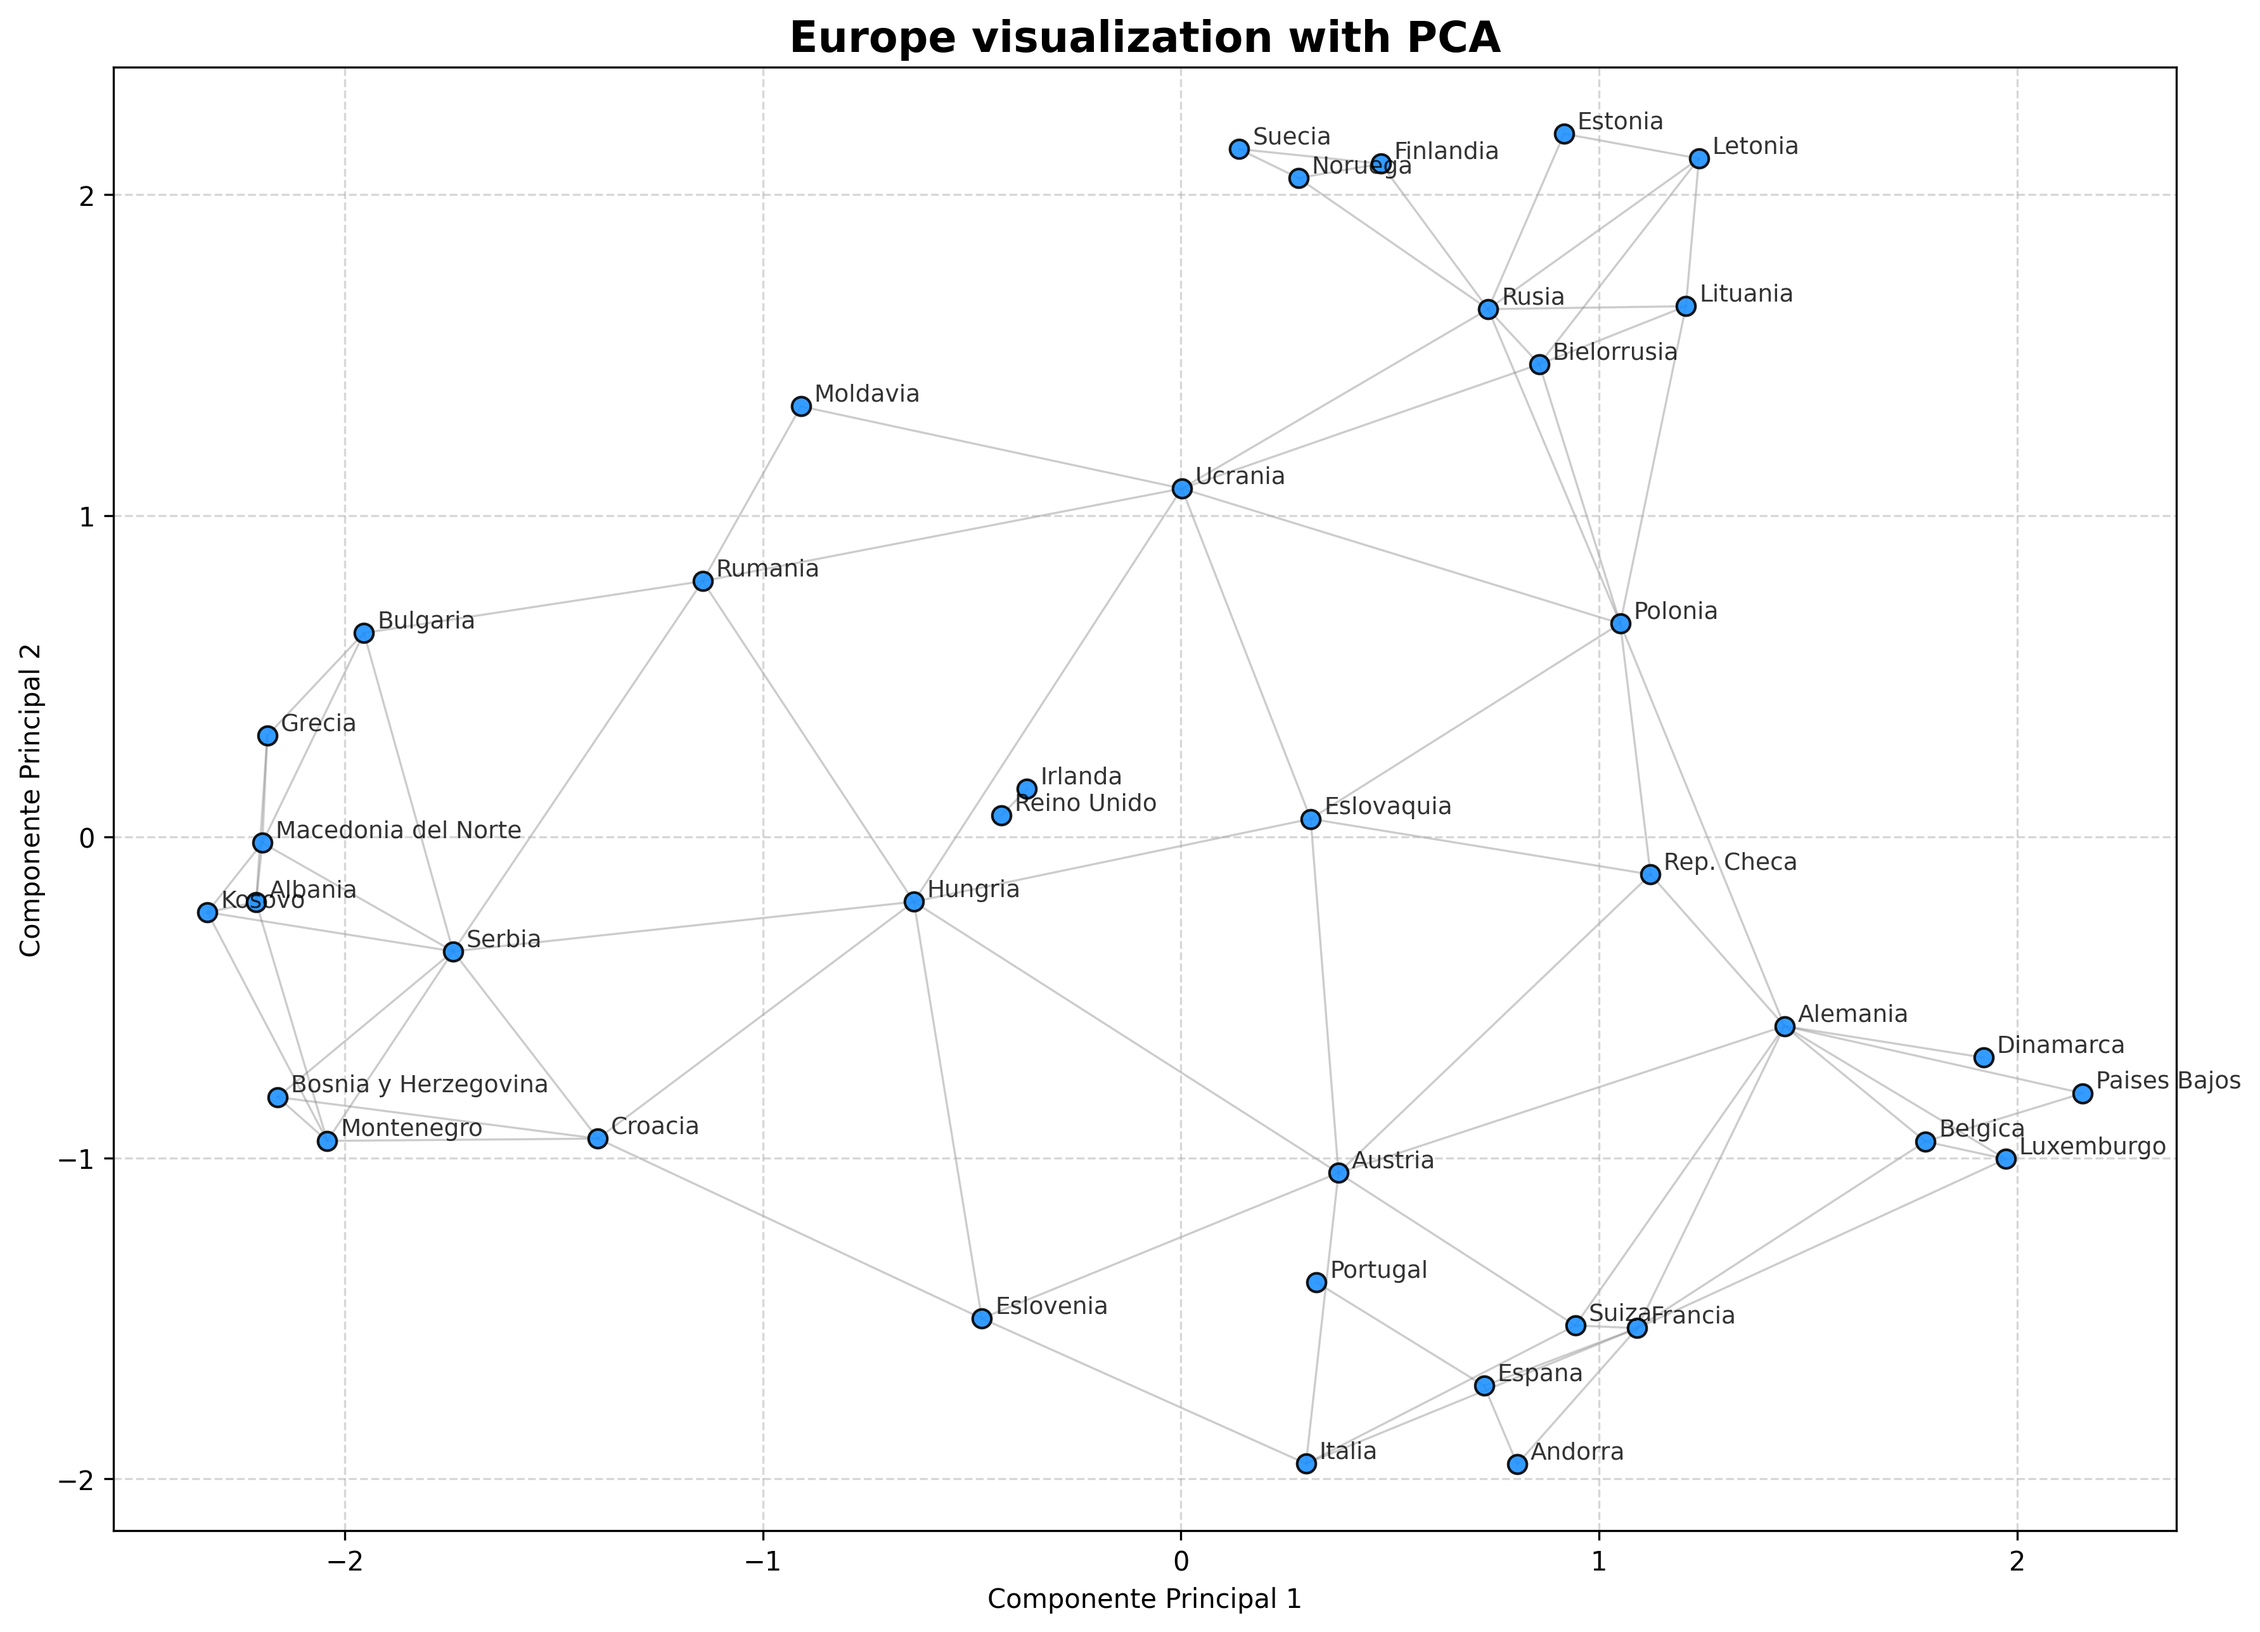
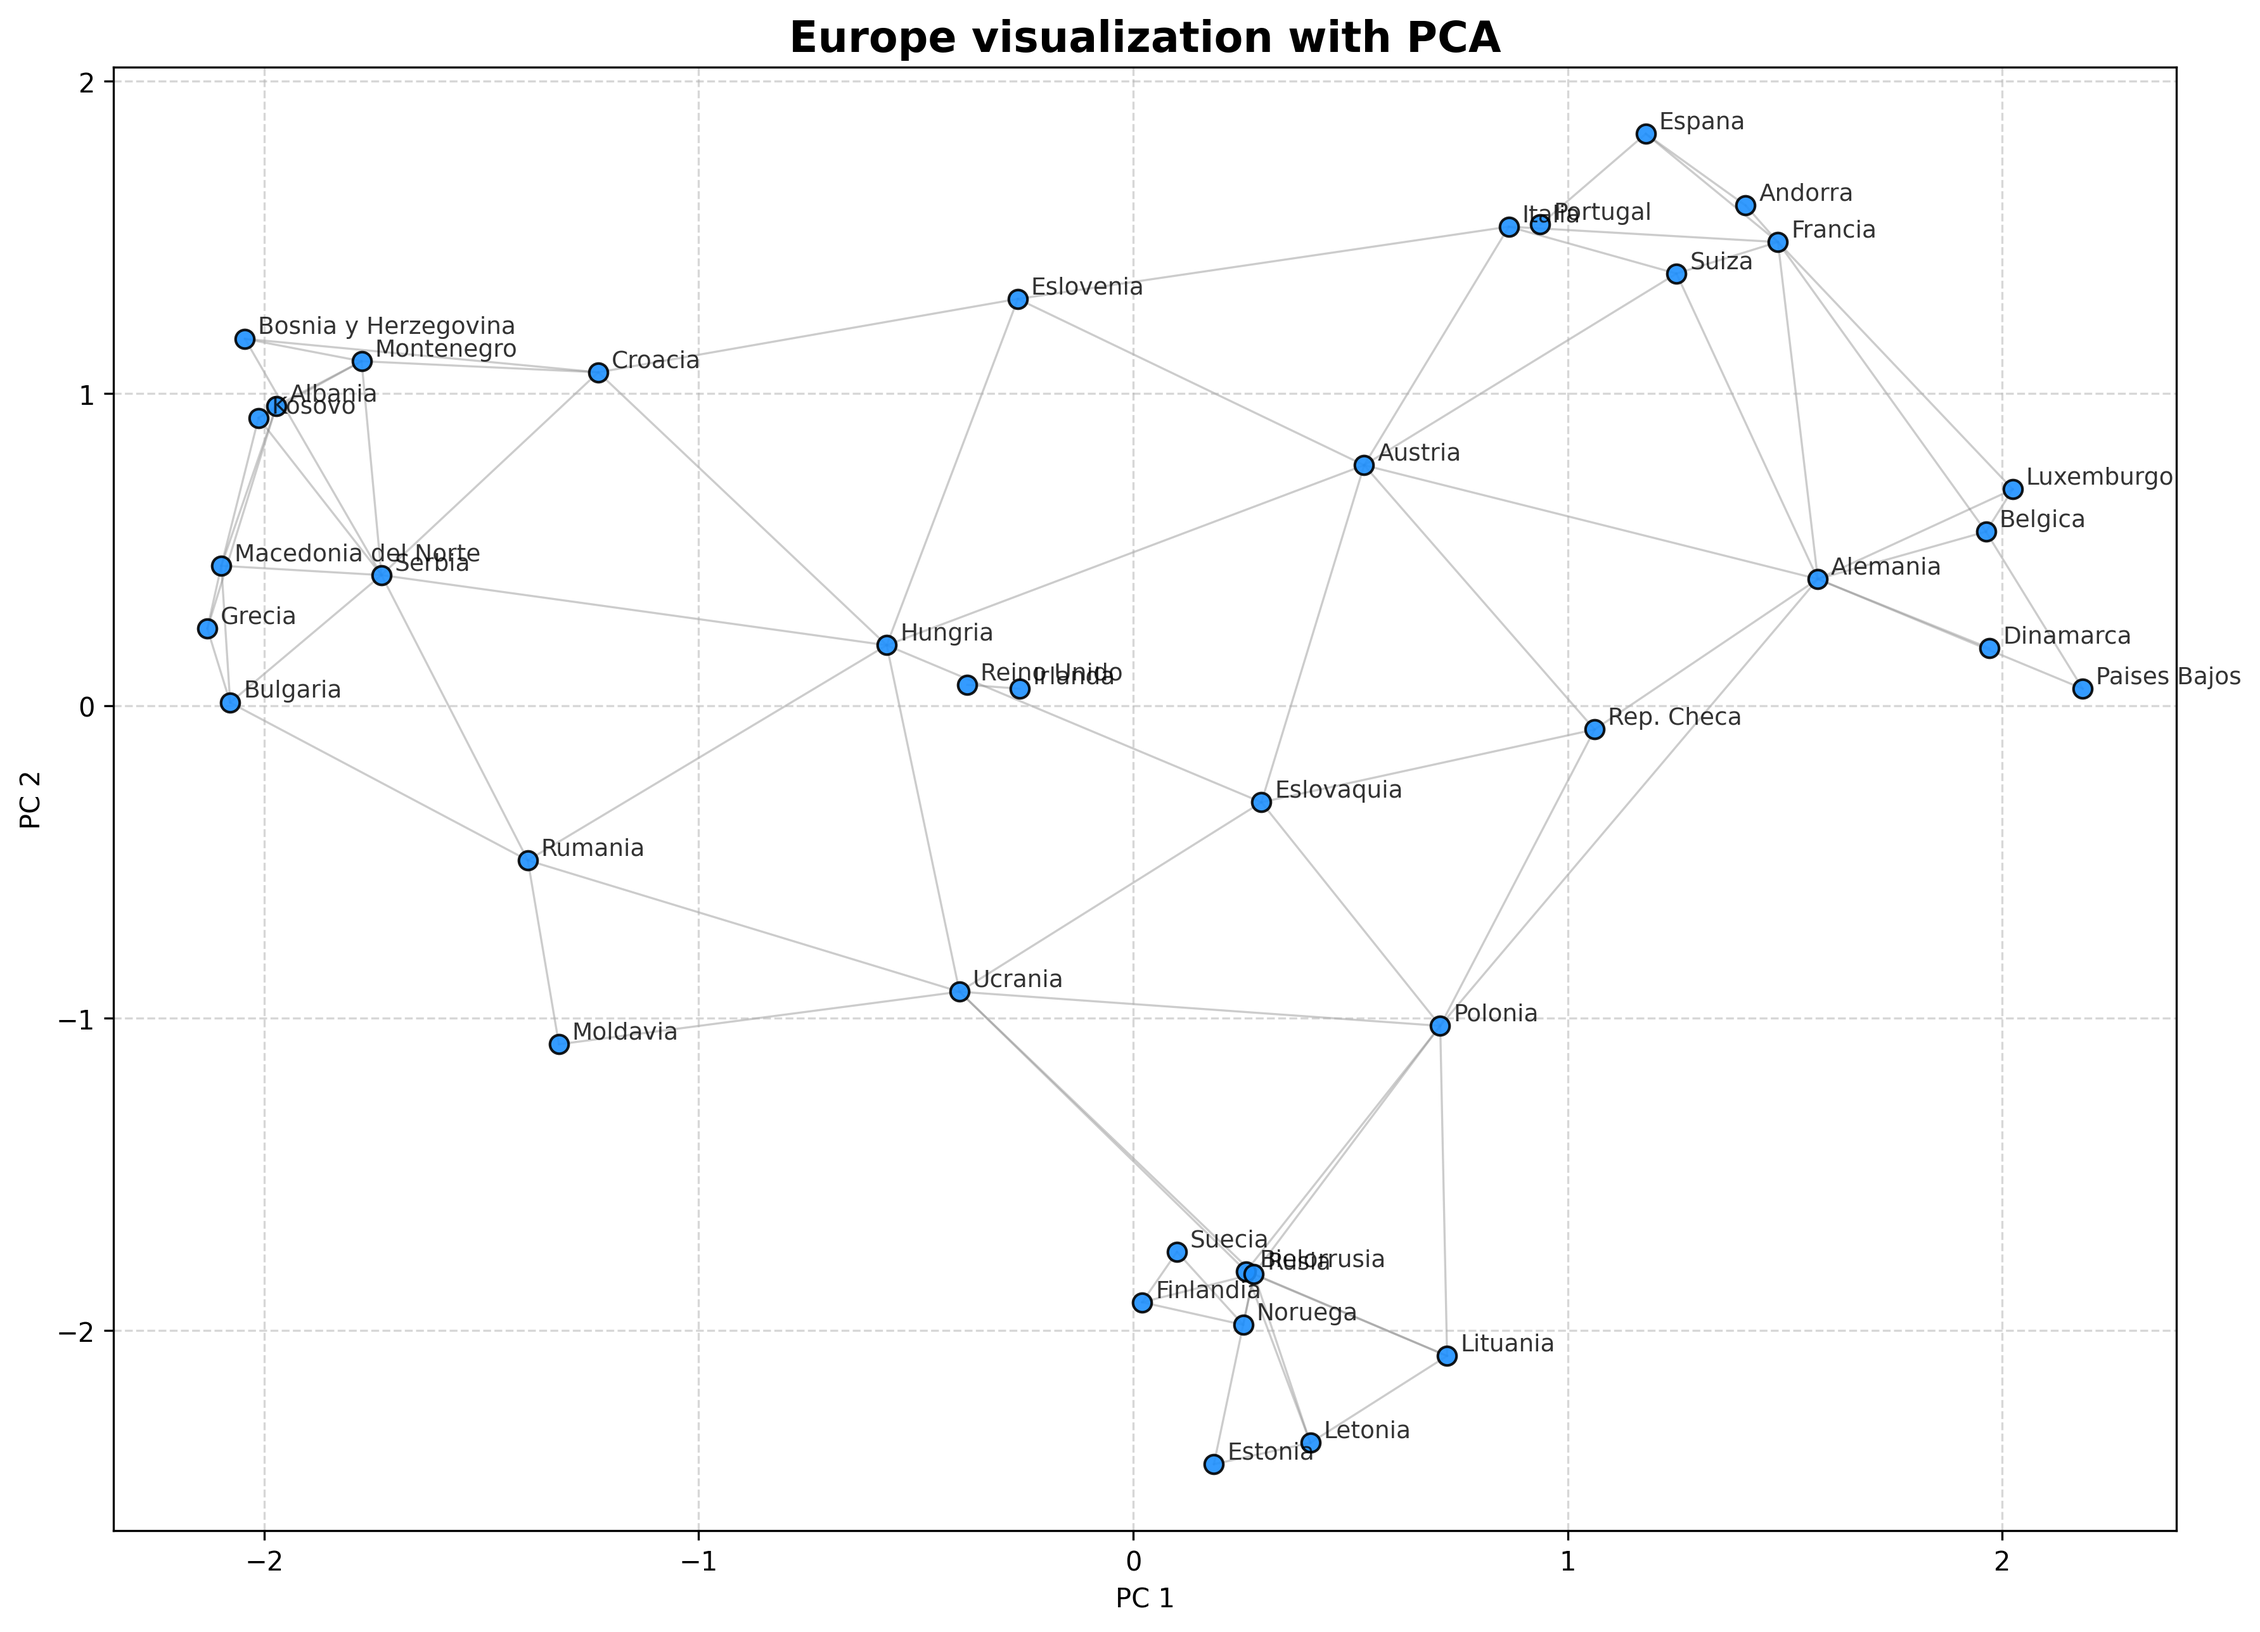
stubs and loading

diff --git a/include/skipGram.hpp b/include/skipGram.hpp
@@ -3,7 +3,8 @@
 #include <random>
 #include "graph.hpp"
 #include <cmath>
-
+#include <fstream>
+#include <stdexcept>
 
 
 
@@ -11,12 +12,99 @@ template <typename IDType>
 class SkipGram{
     public:
 
-        SkipGram(int N, bool subsampling) : 
+        SkipGram(int N = 200, bool subsampling = false) : 
             dim_N(N),
             dim_V(0),    
             subsampling(subsampling),
             Iters(0)
         {}
+
+        void save_model(const std::string& filename) const {
+            std::ofstream out(filename, std::ios::binary);
+            if (!out) {
+                throw std::runtime_error("Error: No se pudo abrir el archivo para escribir: " + filename);
+            }
+
+
+            out.write(reinterpret_cast<const char*>(&dim_V), sizeof(int));
+            out.write(reinterpret_cast<const char*>(&dim_N), sizeof(int));
+            out.write(reinterpret_cast<const char*>(&Iters), sizeof(int));
+            out.write(reinterpret_cast<const char*>(&subsampling), sizeof(bool));
+
+
+            out.write(reinterpret_cast<const char*>(W1.data()), W1.size() * sizeof(float));
+            out.write(reinterpret_cast<const char*>(W2.data()), W2.size() * sizeof(float));
+
+
+            out.write(reinterpret_cast<const char*>(Frecs.data()), Frecs.size() * sizeof(int));
+
+
+            size_t vocab_size = Vocab.size();
+            out.write(reinterpret_cast<const char*>(&vocab_size), sizeof(size_t));
+            
+            for (const auto& pair : Vocab) {
+               
+                size_t str_len = pair.first.size();
+                out.write(reinterpret_cast<const char*>(&str_len), sizeof(size_t)); 
+                out.write(pair.first.data(), str_len);                               
+                out.write(reinterpret_cast<const char*>(&pair.second), sizeof(int)); 
+            }
+
+
+            
+            out.close();
+        }
+
+      
+        void load_model(const std::string& filename) {
+            std::ifstream in(filename, std::ios::binary);
+            if (!in) {
+                throw std::runtime_error("Error: No se pudo abrir el archivo para leer: " + filename);
+            }
+
+
+            in.read(reinterpret_cast<char*>(&dim_V), sizeof(int));
+            in.read(reinterpret_cast<char*>(&dim_N), sizeof(int));
+            in.read(reinterpret_cast<char*>(&Iters), sizeof(int));
+            in.read(reinterpret_cast<char*>(&subsampling), sizeof(bool));
+
+            W1.resize(dim_V * dim_N);
+            in.read(reinterpret_cast<char*>(W1.data()), W1.size() * sizeof(float));
+
+            W2.resize(dim_N * dim_V);
+            in.read(reinterpret_cast<char*>(W2.data()), W2.size() * sizeof(float));
+
+       
+            Frecs.resize(dim_V);
+            in.read(reinterpret_cast<char*>(Frecs.data()), Frecs.size() * sizeof(int));
+
+            size_t vocab_size;
+            in.read(reinterpret_cast<char*>(&vocab_size), sizeof(size_t));
+            Vocab.clear();
+            
+            for (size_t i = 0; i < vocab_size; ++i) {
+                size_t str_len;
+                in.read(reinterpret_cast<char*>(&str_len), sizeof(size_t));
+                
+                std::string key(str_len, '\0'); 
+                in.read(&key[0], str_len);      
+                
+                int value;
+                in.read(reinterpret_cast<char*>(&value), sizeof(int));
+                
+                Vocab[key] = value;
+            }
+
+
+            Embeddings.assign(dim_V, std::vector<float>(dim_N, 0.0f));
+            for (int i = 0; i < dim_V; ++i) {
+                for (int j = 0; j < dim_N; ++j) {
+                    Embeddings[i][j] = W1[i * dim_N + j];
+                }
+            }
+
+            in.close();
+        }
 
         float cosine_similarity(IDType word1, IDType word2) const {
             std::vector<float> emb1 = get_embedding(word1);
@@ -87,7 +175,7 @@ class SkipGram{
 
         void build_vocab(const std::vector<IDType>& vocab, const std::vector<int>& frecs) {
             if (vocab.size() != frecs.size()) {
-                throw std::invalid_argument("El tamaño del vocabulario y de las frecuencias debe coincidir.");
+                throw std::invalid_argument("Vocab length and frecs length must match");
             }
 
             Vocab.clear();

diff --git a/bindings/pybind_module.cpp b/bindings/pybind_module.cpp
@@ -13,23 +13,25 @@ using MySkipGram = SkipGram<std::string>;
 PYBIND11_MODULE(node2vec_cpp, m) {
     py::class_<MyGraph>(m, "Graph")
         .def(py::init<>())
-        .def("get_adyacent", &MyGraph::get_adyacent)
-        .def("add_vertex", &MyGraph::add_vertex)
-        .def("add_edge", &MyGraph::add_edge)
-        .def("remove_vertex", &MyGraph::remove_vertex)
-        .def("remove_edge", &MyGraph::remove_edge)
-        .def("get_walks", &MyGraph::get_walks)
+        .def("get_adyacent", &MyGraph::get_adyacent, py::arg("ID"))
+        .def("add_vertex", &MyGraph::add_vertex, py::arg("ID"), py::arg("content"))
+        .def("add_edge", &MyGraph::add_edge, py::arg("vertex1"), py::arg("vertex2"), py::arg("weight"))
+        .def("remove_vertex", &MyGraph::remove_vertex, py::arg("ID"))
+        .def("remove_edge", &MyGraph::remove_edge, py::arg("vertex1"), py::arg("vertex2"))
+        .def("get_walks", &MyGraph::get_walks, py::arg("num_walks"), py::arg("num_steps"), py::arg("p"), py::arg("q"))
         .def("get_nodes", &MyGraph::get_nodes)
         .def("get_degrees", &MyGraph::get_degrees);
 
     py::class_<MySkipGram>(m, "SkipGram")
-        .def(py::init<int, bool>())
-        .def("build_vocab", py::overload_cast<const std::vector<std::string>&>(&MySkipGram::build_vocab))
-        .def("build_vocab", py::overload_cast<const std::vector<std::string>&, const std::vector<int>&>(&MySkipGram::build_vocab))
-        .def("train", &MySkipGram::train)
+        .def(py::init<int, bool>(), py::arg("N") = 300, py::arg("subsampling") = false)
+        .def("build_vocab", py::overload_cast<const std::vector<std::string>&>(&MySkipGram::build_vocab), py::arg("corpus"))
+        .def("build_vocab", py::overload_cast<const std::vector<std::string>&, const std::vector<int>&>(&MySkipGram::build_vocab), py::arg("vocab"), py::arg("frecs"))
+        .def("train", &MySkipGram::train, py::arg("walks"), py::arg("epochs"), py::arg("K"), py::arg("C"), py::arg("starting_alpha"), py::arg("verbose"))
         .def("clear", &MySkipGram::clear)
-        .def("get_embedding", &MySkipGram::get_embedding)
+        .def("get_embedding", &MySkipGram::get_embedding, py::arg("word"))
         .def("get_embeddings", &MySkipGram::get_embeddings)
-        .def("cosine_similarity", &MySkipGram::cosine_similarity)
-        .def("most_similar", &MySkipGram::most_similar);
+        .def("cosine_similarity", &MySkipGram::cosine_similarity, py::arg("word1"), py::arg("word2"))
+        .def("save_model", &MySkipGram::save_model, py::arg("filename"))
+        .def("load_model", &MySkipGram::load_model, py::arg("filename"))
+        .def("most_similar", &MySkipGram::most_similar, py::arg("word"), py::arg("top_k") = 5);
 }

diff --git a/python/main.py b/python/main.py
@@ -100,8 +100,8 @@ for i, pais in enumerate(countries):
                  textcoords='offset points', fontsize=9, alpha=0.8, zorder=3)
 
 plt.title("Europe visualization with TSNE", fontsize=16, fontweight='bold')
-plt.xlabel("Componente Principal 1")
-plt.ylabel("Componente Principal 2")
+plt.xlabel("PC 1")
+plt.ylabel("PC 2")
 plt.grid(True, linestyle='--', alpha=0.5)
 plt.savefig(OUTPUT_DIR / "europe_map_tsne.png", dpi=300, bbox_inches='tight')
 plt.show()
@@ -125,8 +125,8 @@ for i, pais in enumerate(countries):
                  textcoords='offset points', fontsize=9, alpha=0.8, zorder=3)
 
 plt.title("Europe visualization with PCA", fontsize=16, fontweight='bold')
-plt.xlabel("Componente Principal 1")
-plt.ylabel("Componente Principal 2")
+plt.xlabel("PC 1")
+plt.ylabel("PC 2")
 plt.grid(True, linestyle='--', alpha=0.5)
 plt.savefig(OUTPUT_DIR / "europe_map_pca.png", dpi=300, bbox_inches='tight')
 plt.show()
@@ -139,3 +139,5 @@ plt.ylabel("Loss")
 plt.plot(losses, marker='o') 
 
 plt.show()
+
+modelo.save_model("models/modelo1")
